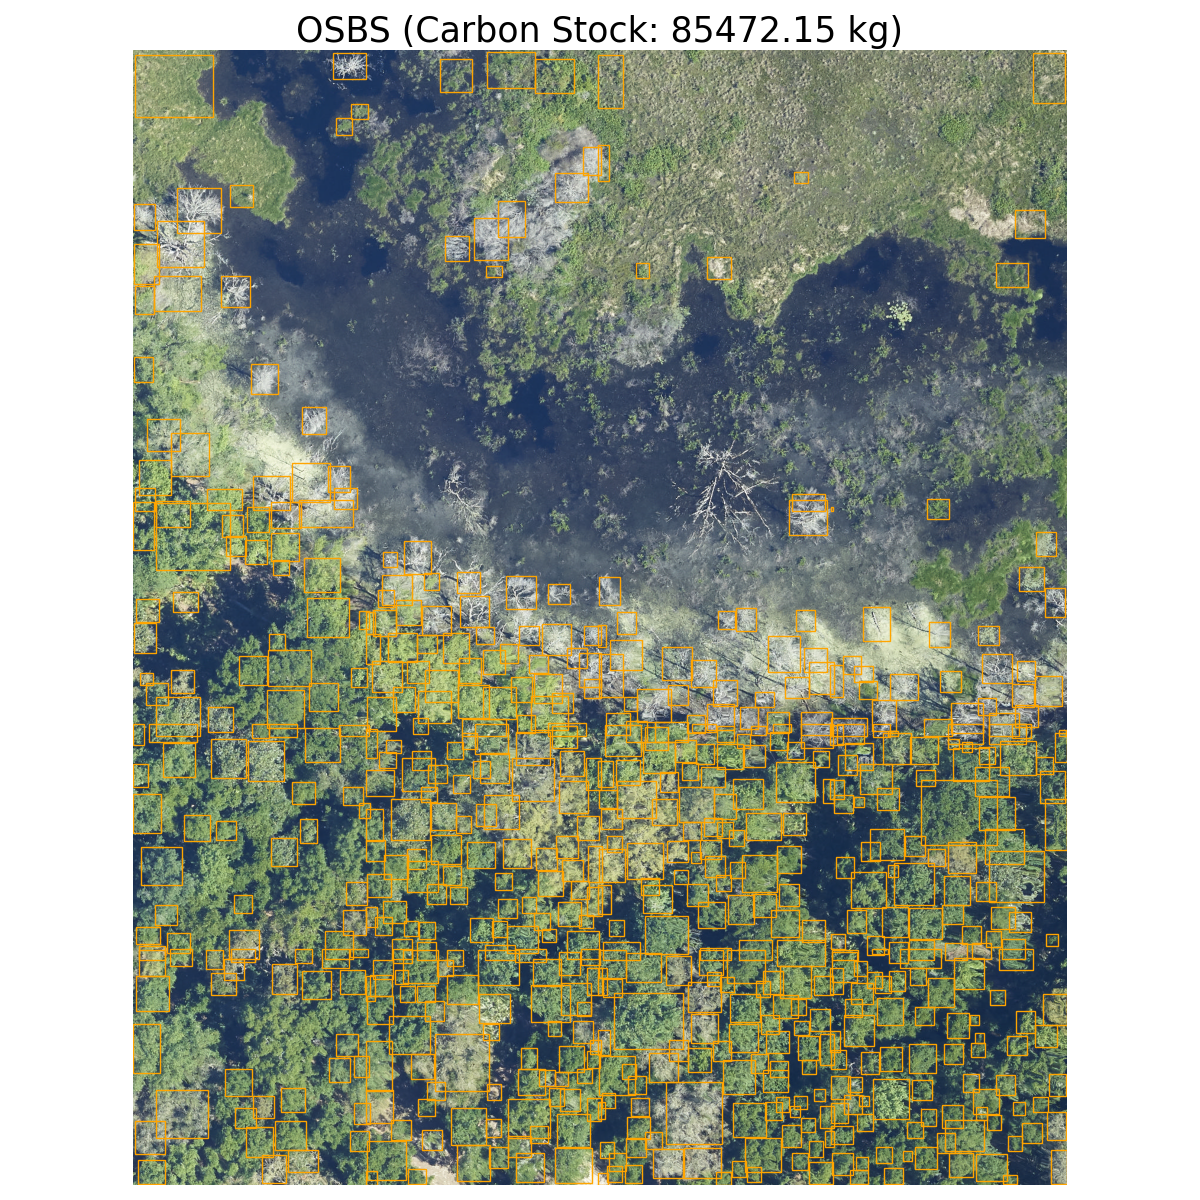
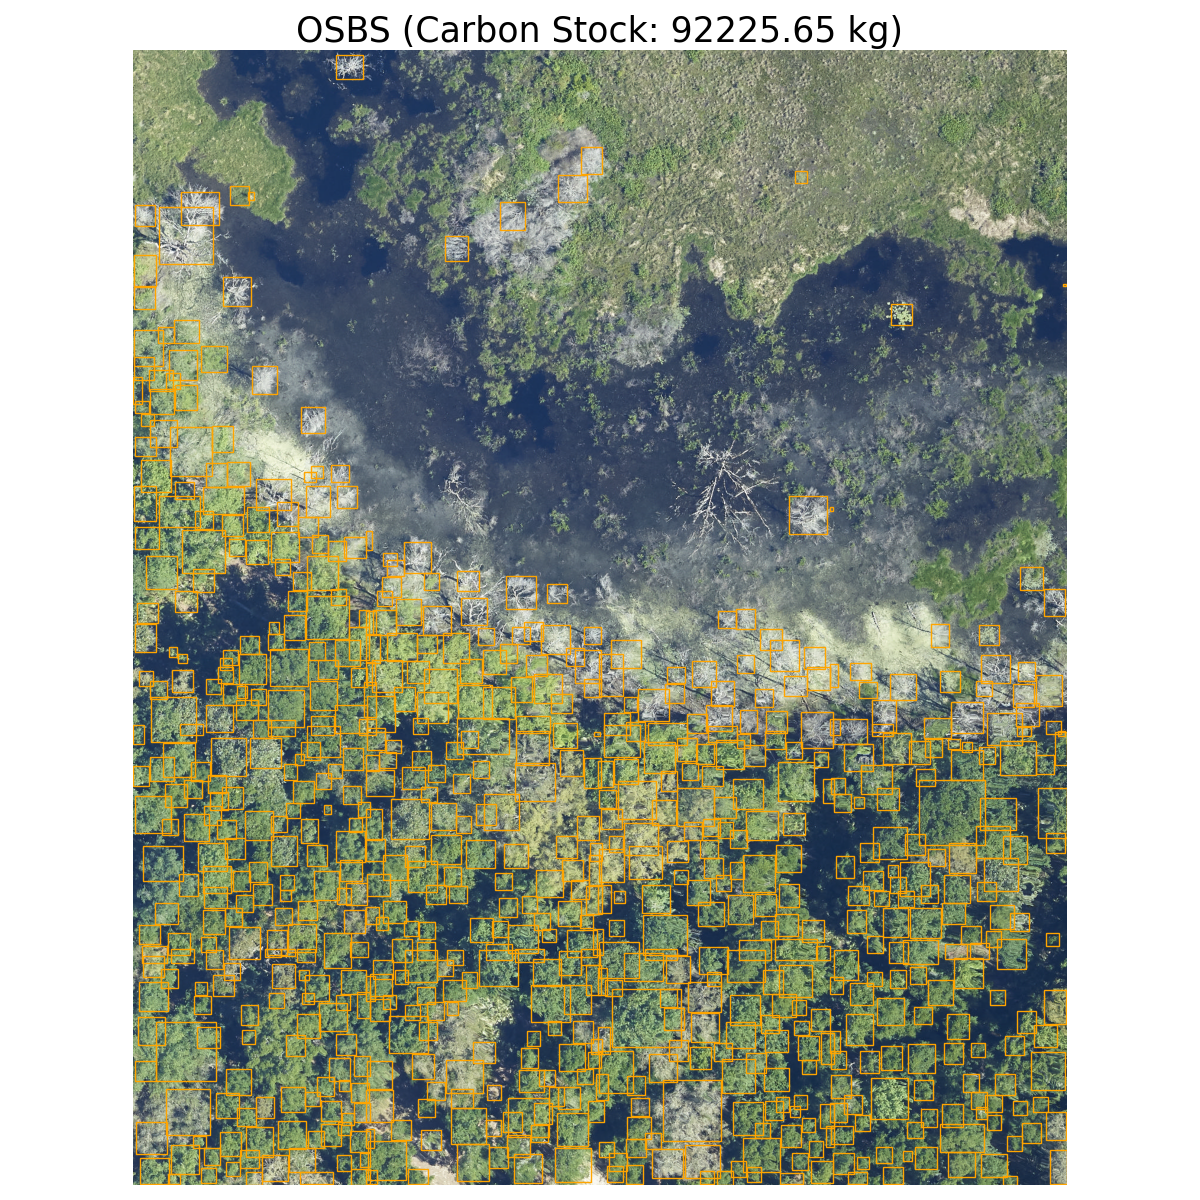
Update readme file, update chm large image processing logic in main_estimate.py

diff --git a/main_estimate.py b/main_estimate.py
@@ -38,6 +38,11 @@ def estimate_carbon_from_large_tile(rgb_path, chm_path, hsi_path, model, rf_mode
     scale_rgb_to_chm = rgb_large.shape[1] / chm_large.shape[0]
     scale_rgb_to_hsi = rgb_large.shape[1] / hsi_large.shape[0]
 
+    chm_large = np.clip(chm_large, np.percentile(chm_large, 3), np.percentile(chm_large, 99))
+    chm_large_scaled = (chm_large - np.min(chm_large)) / (np.max(chm_large) - np.min(chm_large))
+    chm_large_scaled = (chm_large_scaled * 255).astype(np.uint8)
+    chm_large_resized = cv2.resize(chm_large_scaled, (rgb_large.shape[2], rgb_large.shape[1]), interpolation=cv2.INTER_CUBIC)
+
     # 2. Split into crops
     rgb_tiles, offsets = split_image_with_offsets(rgb_large, (tile_size, tile_size))
     chm_tiles, _ = split_image_with_offsets(chm_large, (tile_size, tile_size), scale_factor=0.1)
@@ -47,12 +52,9 @@ def estimate_carbon_from_large_tile(rgb_path, chm_path, hsi_path, model, rf_mode
     all_boxes = []
     all_scores = []
     for rgb_tile, chm_tile, offset in zip(rgb_tiles, chm_tiles, offsets):
-        chm_tile = cv2.resize(chm_tile, (rgb_tile.shape[2], rgb_tile.shape[1]), interpolation=cv2.INTER_CUBIC)
-        chm_tile_scaled = (chm_tile - np.min(chm_tile)) / (np.max(chm_tile) - np.min(chm_tile) + 1e-6)
-
         # Prepare input for model (adjust as needed for your model)
         rgb_tensor = transforms.ToTensor()(rgb_tile.transpose(1, 2, 0)).to(device)  # (3, 400, 400)
-        chm_tensor = transforms.ToTensor()(chm_tile_scaled).to(device) # (400, 400)
+        chm_tensor = transforms.ToTensor()(chm_tile).to(device) # (400, 400)
 
         # Run detection (replace with your model's API)
         with torch.no_grad():
@@ -68,8 +70,7 @@ def estimate_carbon_from_large_tile(rgb_path, chm_path, hsi_path, model, rf_mode
         all_scores.append(scores)
 
     # 4. Merge detections
-    # merged_boxes, merged_scores = merge_detections(all_boxes, all_scores, iou_thresh=0.5)
-    merged_boxes, merged_scores = merge_overlapping_boxes(all_boxes, all_scores, iou_thresh=0.4)
+    merged_boxes, merged_scores = merge_overlapping_boxes(all_boxes, all_scores, iou_thresh=0.2)
 
     # 5. Extract features for each detected crown
     features = []

diff --git a/README.md b/README.md
@@ -129,7 +129,7 @@ test:
 ### Inference Configuration
 ```yaml
 inference:
-  conf_thresh: 0.15              # Confidence score for tree crown detection
+  conf_thresh: 0.1               # Confidence score for tree crown detection
   site: 'DELA'                   # NEON site identifier
   rgb_tile_path: 'path/to/large/rgb/tile.tif'
   chm_tile_path: 'path/to/large/chm/tile.tif'
@@ -275,10 +275,14 @@ The carbon stock estimation pipeline includes:
 <!-- | Overall (204 trees) | 184.52    | 118.94   | 58.51     | 0.4340 | [RF Model](https://drive.google.com/file/d/1Y3aA_SU2SGPLahD4gJqH4IP8DrxsXjsW/view?usp=sharing) | -->
 
 ### Large-scale Carbon Stock Estimation
-Confidence threshold: 0.15
+Confidence threshold: 0.1
 <p align="center">
   <img src="docs/assets/carbon_stock_detection_OSBS.png" width="45%" />
-  <img src="docs/assets/carbon_stock_detection_MLBS.png" width="45%" />
+  <img src="docs/assets/carbon_stock_detection_DELA.png" width="45%" />
+</p>
+<p align="center">
+  <img src="docs/assets/carbon_stock_detection_BART.png" width="45%" />
+  <img src="docs/assets/carbon_stock_detection_HARV.png" width="45%" />
 </p>
 
 <!-- ## Citation
